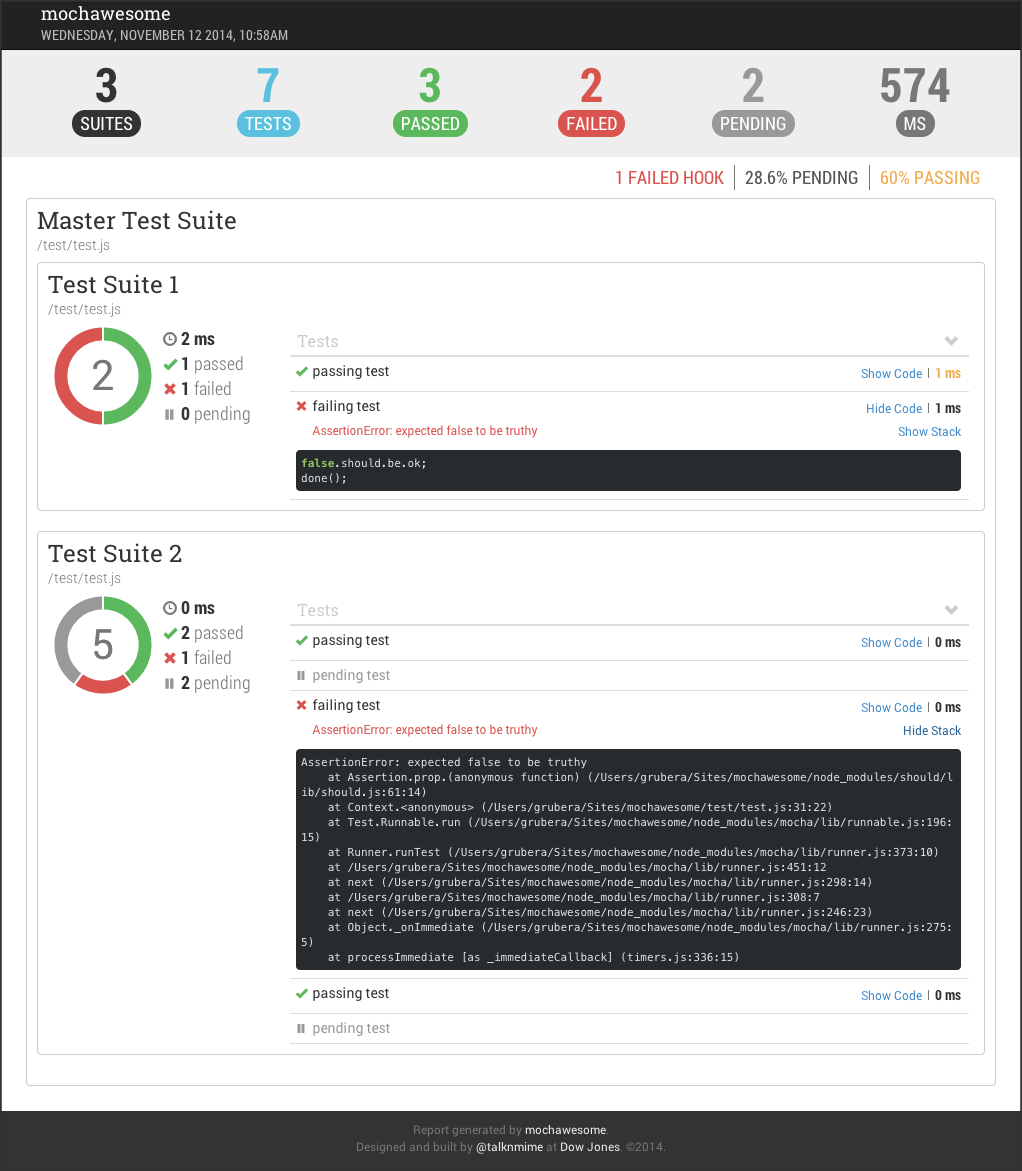
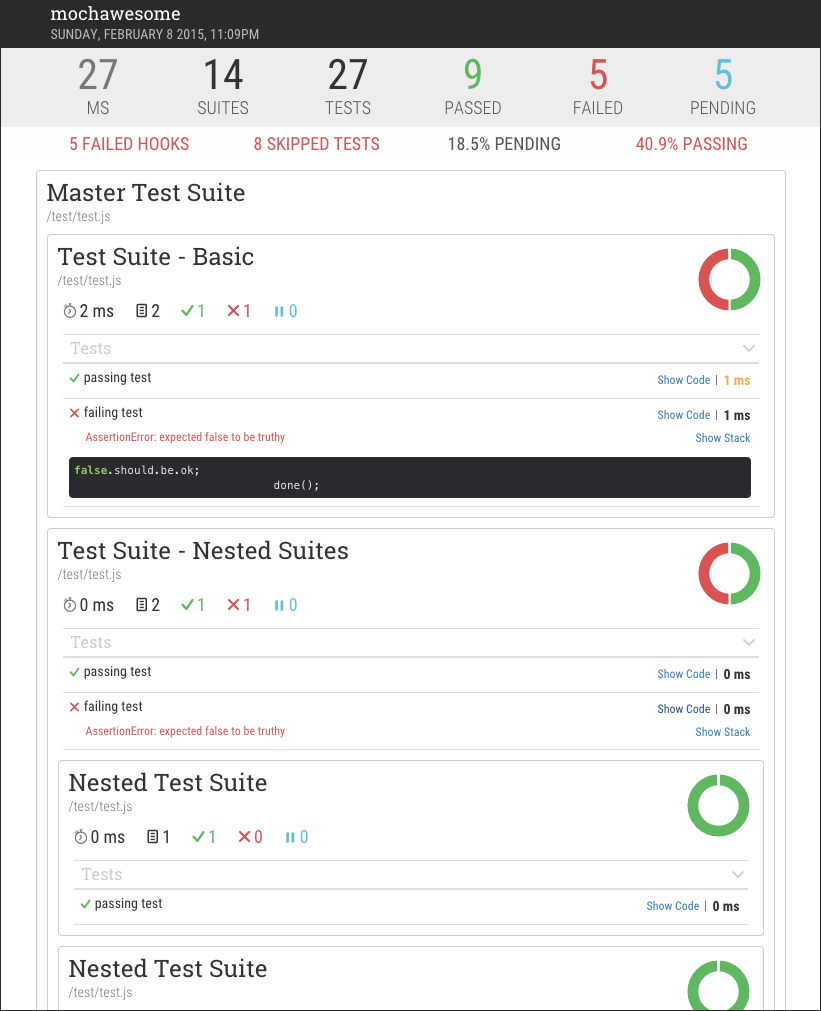
updated docs; package.json

diff --git a/README.md b/README.md
@@ -1,21 +1,27 @@
-mochawesome [![npm](http://img.shields.io/badge/npm-0.3.3-green.svg?style=flat-square)](http://registry.npm.wsjfdev.dowjones.net/mochawesome)
+mochawesome [![npm](http://img.shields.io/badge/npm-1.0.0-green.svg?style=flat-square)](http://registry.npm.wsjfdev.dowjones.net/mochawesome)
 ===========
 
 Mochawesome is a custom reporter for use with the Javascript testing framework, [mocha](http://visionmedia.github.io/mocha/). It generates a full fledged HTML/CSS report that helps visualize your test suites.
 
-##Changes as of 0.3.0
-- Added ability to filter tests by type
-- No longer compiles files at runtime
+##Changes as of 1.0.0
+- Redesigned report
+- Mobile friendly
+- Complete refactor of client-side script
+- Custom builds of vendor scripts
+- Custom font-icon set
+- All fonts are now local to the report
 
 ##Features
 - At-a-glance stats including pass percentage
 - Beautiful charts
 - Support for nested `describe`s
 - Supports pending tests
+- Filter view by test type
 - Review test code inline
 - Stack trace for failed tests
 - Responsive
 - Saves JSON output for further processing
+- Offline viewing
 
 ##Browser Support
 Tested to work in Chrome. *Should* work in any modern web browser including IE9+.
